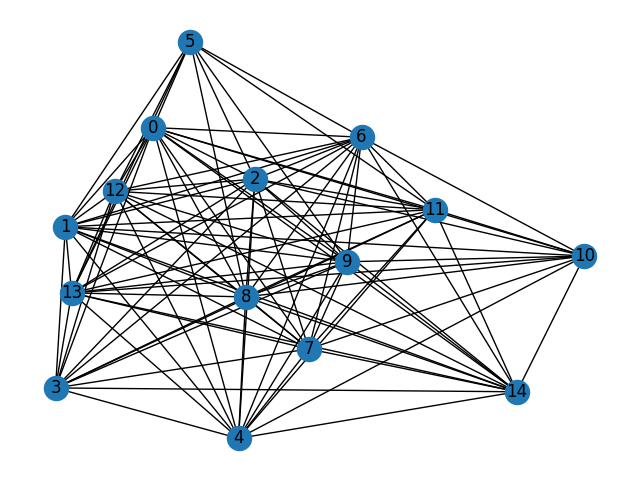
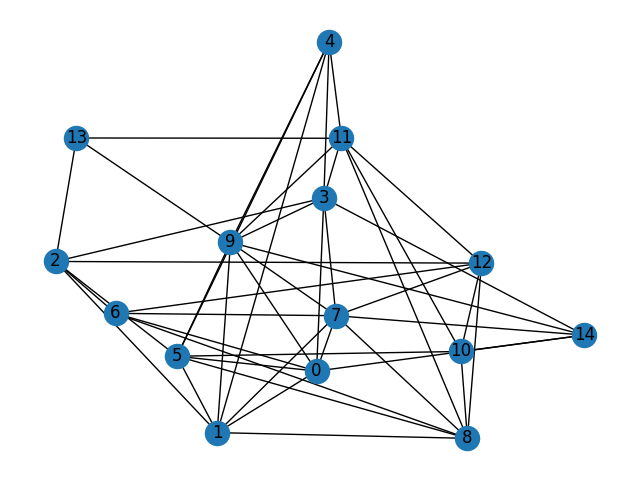
Criação do AG

Changed region(s): [[0.0625, 0.0625, 0.9375, 0.9375], [0.1875, 0.8438, 0.25, 0.875], [0.75, 0.4062, 0.7812, 0.4375]]

diff --git a/randGraph.py b/randGraph.py
@@ -32,4 +32,4 @@ def generate_random_weighted_graph(num_nodes, num_edges):
     plt.show()
 
 # Exemplo de uso
-generate_random_weighted_graph(15, 300)
+generate_random_weighted_graph(15, 60)

diff --git a/tsp.py b/tsp.py
@@ -42,7 +42,7 @@ def tsp(start, G):
 
 
 if __name__ == '__main__':
-    filename = sys.argv[1]
+    filename = "grafo.txt"
     start = 8
 
     G = {}
